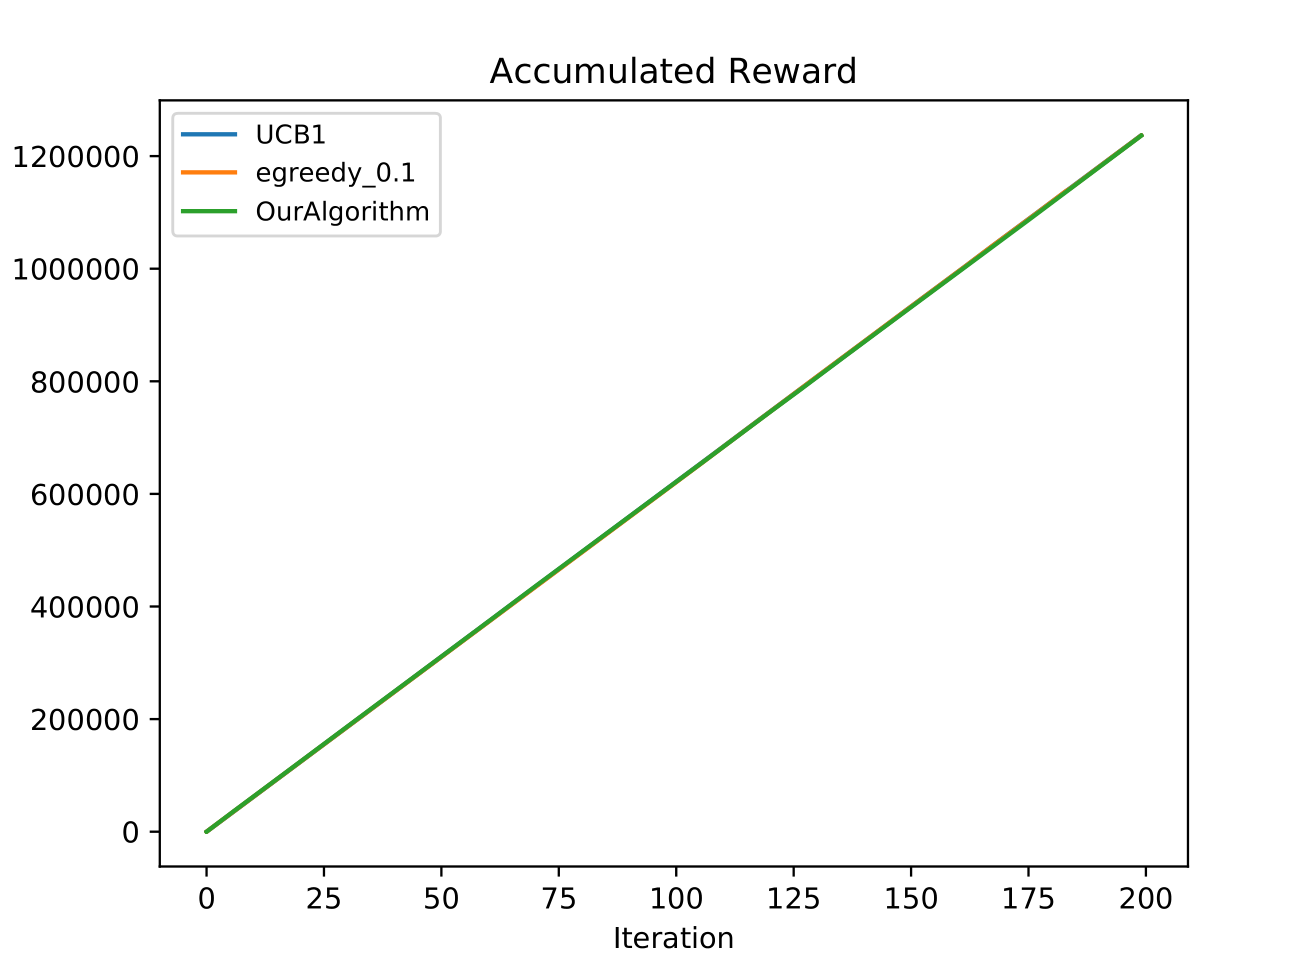
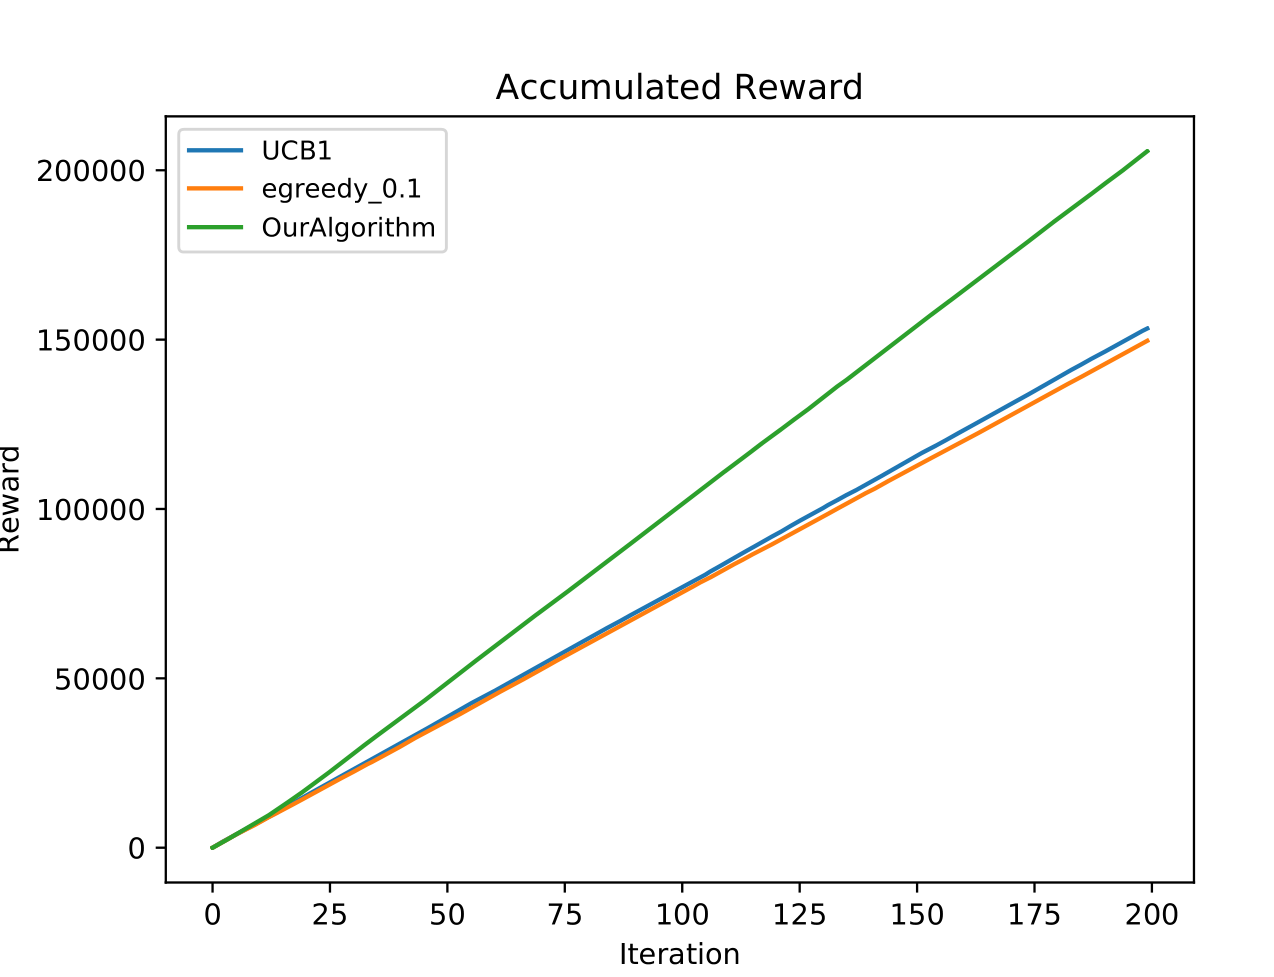
visualize the result

diff --git a/SampleFeature/GenerateNodeFeature.py b/SampleFeature/GenerateNodeFeature.py
@@ -25,7 +25,7 @@ def featureUniform(dimension, scale):
 
 	return vector
 
-dimension = 4
+dimension = 1
 nodeDic = {}
 edgeDic = {}
 degree = []
@@ -36,7 +36,7 @@ for u in G.nodes():
 for u in G.nodes():
 	d = 0
 	for v in G[u]:
-		prob = np.dot(nodeDic[u][1], nodeDic[v][0]) * 4
+		prob = np.dot(nodeDic[u][1], nodeDic[v][0]) * 1
 		if prob > 1:
 			prob = 1
 		edgeDic[(u,v)] = prob

diff --git a/conf.py b/conf.py
@@ -13,7 +13,7 @@ alpha_1 = 0.2
 alpha_2 = 0.2 
 lambda_ = 0.4
 gamma = 0.1
-dimension = 4
+dimension = 20
 seed_size = 300
 iterations = 200
 steps = 5

diff --git a/README.md b/README.md
@@ -23,7 +23,7 @@ alpha_2 = 0.2
 lambda_ = 0.4
 gamma = 0.1
 dimension = 4
-seed_size = 40
+seed_size = 300
 iterations = 200
 
 oracle = degreeDiscountIAC3
@@ -32,55 +32,47 @@ oracle = degreeDiscountIAC3
 #### Experiment
 
 ```
-Dimension: 4, Node number:6191, Edge Number: 9288
-average reward for oracle: 252.19
-UCB1: 96.94
-egreedy_0.1: 160.16
-OurAlgorithm: 223.68
+Dimension: 4, Node number:13365, Edge Number: 132870
+average reward for oracle: 1098.565
+UCB1: 770.62
+egreedy_0.1: 751.76
+OurAlgorithm: 1033.04
 ```
-<p float="left">
-<img src="./SimulationResults/avgReward-normal.png" alt="alt text" width="400" height="300">
-<img src="./SimulationResults/acuReward-normal.png" alt="alt text" width="400" height="300">
-</p>
-
-```
-Dimension: 4, Node number:13353, Edge Number: 131534
-average reward for oracle: 6204.25
-UCB1: 6217.24
-egreedy_0.1: 6215.47
-OurAlgorithm: 6213.86
-```
-
-
-
 <p float="left">
 <img src="./SimulationResults/avgReward-dense.png" alt="alt text" width="400" height="300">
 <img src="./SimulationResults/acuReward-dense.png" alt="alt text" width="400" height="300">
+<img src="./SimulationResults/softDegree-dense.png" alt="alt text" width="400" height="300">
+<img src="./SimulationResults/hardDegree-dense.png" alt="alt text" width="400" height="300">
+<img src="./SimulationResults/loss-dense.png" alt="alt text" width="400" height="300">
 </p>
 
+The probability does not matter so much:
 
-
-
-
-```
-Dimension: 4, Node number:13353, Edge number: 131534, Scale = 0.2
-average reward for oracle: 532.15
-UCB1: 437.42
-egreedy_0.1: 493.68
-OurAlgorithm: 470.27
-```
+scale: 1, 2, 4:
 
 <p float="left">
-<img src="./SimulationResults/avgReward-denseLowProb.png" alt="alt text" width="400" height="300">
-<img src="./SimulationResults/acuReward-denseLowProb.png" alt="alt text" width="400" height="300">
+<img src="./SimulationResults/avgReward-denseLowProb.png" alt="alt text" width="260" height="200">
+<img src="./SimulationResults/avgReward-denseMiddleProb.png" alt="alt text" width="260" height="200">
+<img src="./SimulationResults/avgReward-dense.png" alt="alt text" width="260" height="200">
 </p>
 
 
-
-Loss for Dimension 1, Dimension 4, Dimension 16:
+Simulation dimension: 20, Algorithm dimension: 1
 
 <p float="left">
-<img src="./SimulationResults/Loss-1.png" alt="alt text" width="260" height="200">
-<img src="./SimulationResults/Loss-4.png" alt="alt text" width="260" height="200">
-<img src="./SimulationResults/Loss-16.png" alt="alt text" width="260" height="200">
+<img src="./SimulationResults/avgReward-lowRank.png" alt="alt text" width="400" height="300">
+<img src="./SimulationResults/loss-lowRank.png" alt="alt text" width="400" height="300">
 </p>
+
+Simulation dimension: 1, Algorithm dimension: 20
+
+<p float="left">
+<img src="./SimulationResults/avgReward-highRank.png" alt="alt text" width="400" height="300">
+<img src="./SimulationResults/loss-highRank.png" alt="alt text" width="400" height="300">
+</p>
+
+
+
+
+
+
